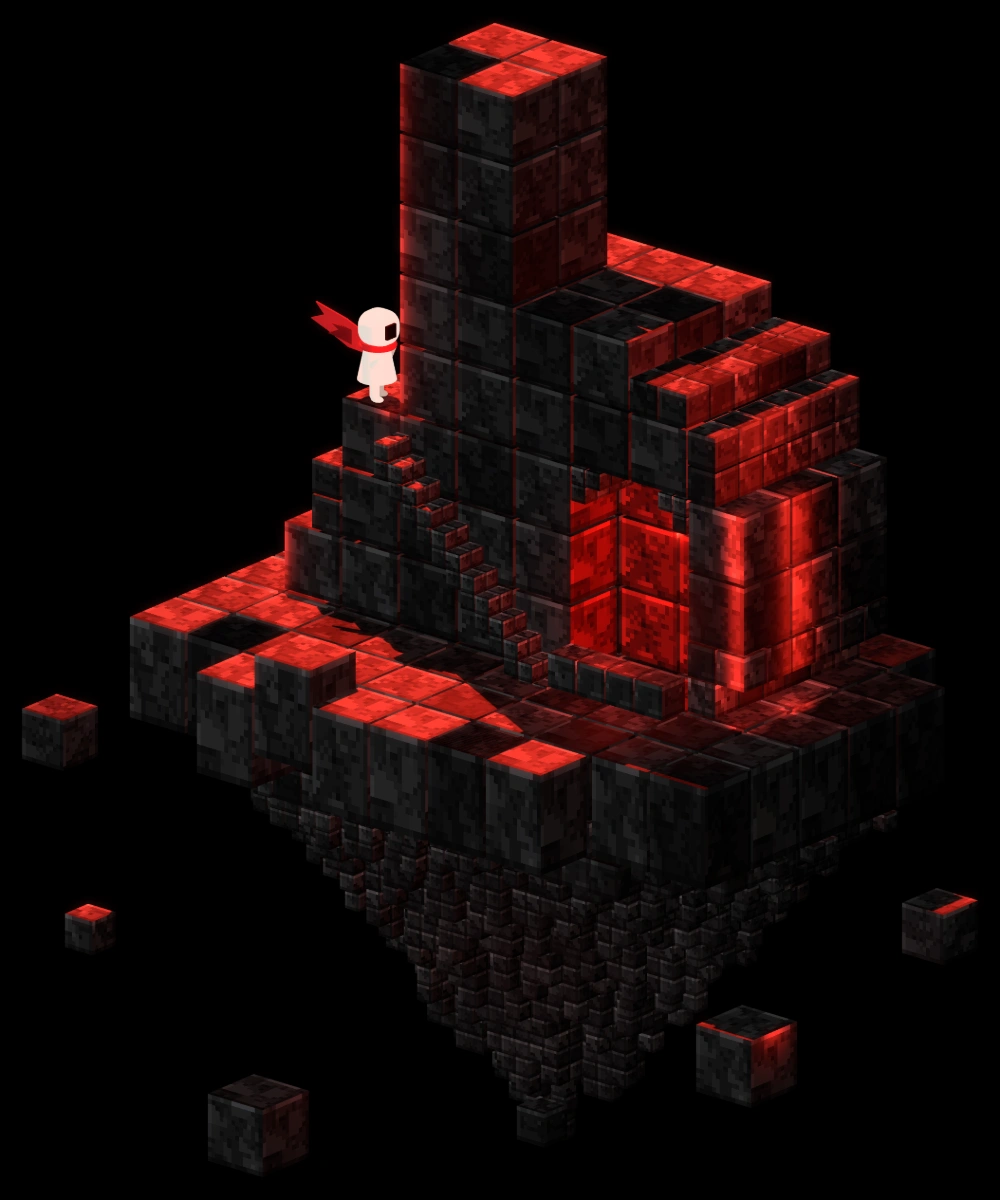
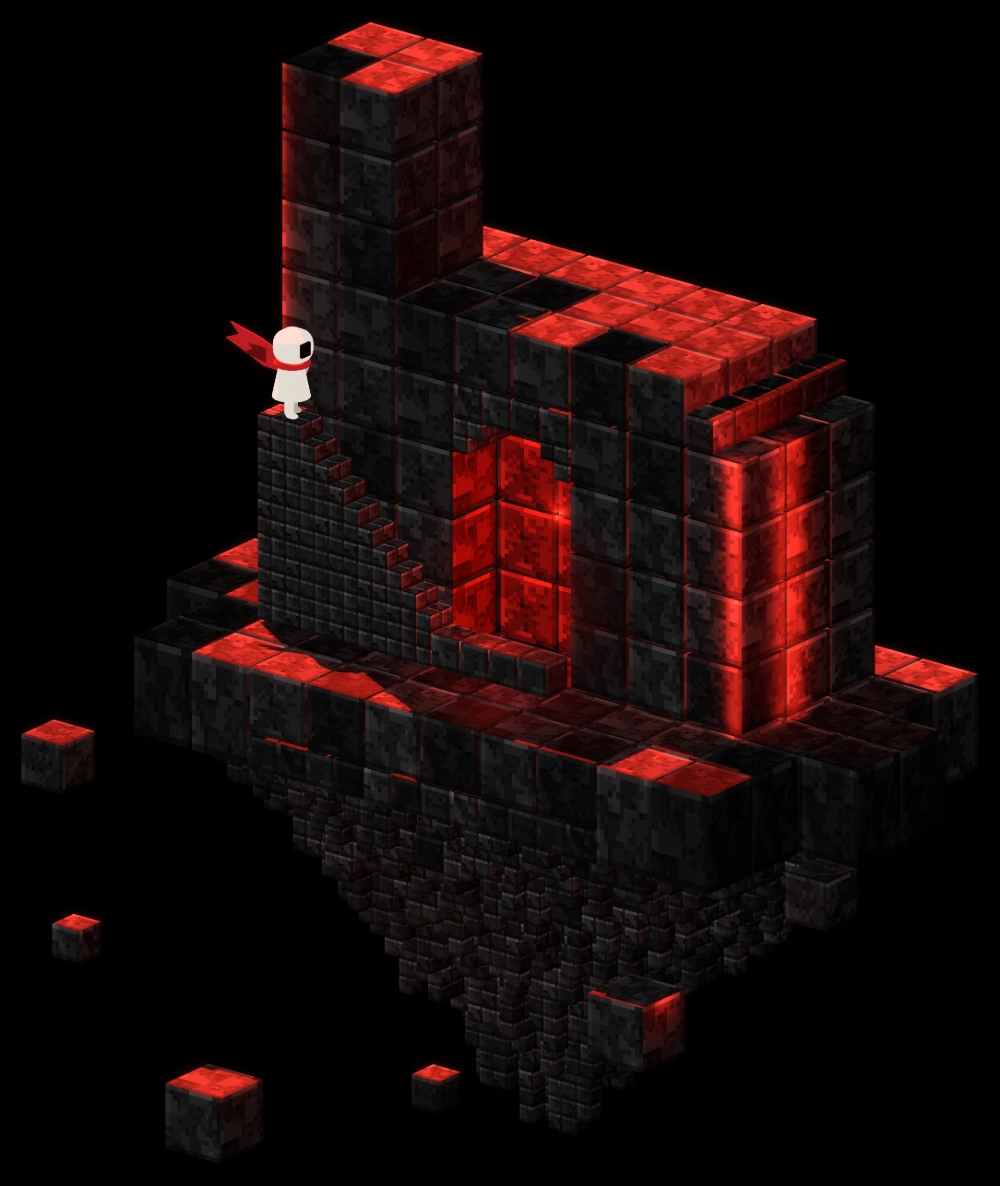
Sculpture: no left stair block, visible explorer, big right side
- removed the block and the spare platform left of the stem; one flight of stairs (a solid wedge of
  3.75-unit blocks) runs from a landing in front of the stem down the front wall to the doorstep
- explorer stands on that landing, in front of the stem, fully visible
- bowl lengthened to 7 cubes with a square bottom and a small rounded top corner, so its right end is a
  full-height side face; taller door; camera 38 deg; island centred under the b

Claude-Session: https://claude.ai/code/session_01QzWKhTYrrY3Jd26DSiS11Q

diff --git a/tools/sculpture3d.js b/tools/sculpture3d.js
@@ -51,11 +51,11 @@ const G = 3.75;                                    // finest letter cell; aligne
 const BODY_Y1 = 45;                                // front plane of the letter: three cubes deep
 const JF = BODY_Y1 / G;                            // cells through the depth of the bowl
 const STEM = { x0: 30, x1: 60, h: 120, y0: 15 };   // 2 cubes wide, 2 deep (front flush with the bowl), 8 tall
-const BOWL = { x0: 45, x1: 120, h: 75, rTop: 45, rBot: 15 };            // 3 deep, 5 tall, 5 wide; a big rounded top-right corner
-const DOOR = { x0: 75, x1: 105, zRect: 30, cx: 90, r: 15, recessY: 30 };   // arched opening on the cube grid, recessed one cube
+const BOWL = { x0: 45, x1: 150, h: 75, rTop: 30, rBot: 0 };             // 3 deep, 5 tall, 7 wide; square bottom, small rounded top corner: the right end is a big, full-height side face
+const DOOR = { x0: 75, x1: 105, zRect: 37.5, cx: 90, r: 15, recessY: 30 };   // arched opening on the cube grid, recessed one cube
 const LANDING_Z = 45;                              // top of the stairs, where the explorer stands
 const CELL = 15;                                   // island top cube; tiers below are CELL/2 and CELL/4
-const PLAT_CX = 62, PLAT_CY = 34, PLAT_AX = 80, PLAT_AY = 52;   // island footprint: an ellipse that reads as a disc from the camera
+const PLAT_CX = 90, PLAT_CY = 30, PLAT_AX = 84, PLAT_AY = 50;   // centred under the b: no spare platform to its left   // island footprint: an ellipse that reads as a disc from the camera
 
 const inCircle = (x, z, cx, cz, r) => (x - cx) ** 2 + (z - cz) ** 2 <= r * r;
 const inStem = (X, Z) => X >= STEM.x0 && X < STEM.x1 && Z >= 0 && Z < STEM.h;
@@ -106,30 +106,28 @@ function buildLetter() {
       }
     }
   }
-  // stairs, as in the reference: a left block flush with the b (same depth and front as the stem) whose top climbs in three steps
-  // (15 / 30 / 45 high) to the landing beside the stem, then a thin ribbon of small steps runs down the wall to the doorstep
-  putBox(0, 7.5, STEM.y0, BODY_Y1, 0, 15, 'stair');
-  putBox(7.5, 15, STEM.y0, BODY_Y1, 0, 30, 'stair');
-  putBox(15, 30, STEM.y0, BODY_Y1, 0, 45, 'stair');
+  // no block left of the stem: the only stairs are one flight down the front wall (emitStairs)
   // doorstep
   putBox(75, 105, 45, 52.5, 0, 7.5, 'step');
   chips.forEach(([i, j, k]) => grid.delete(gk(i, j, k)));
 }
 
-// thin ribbon of small steps from the landing down to the doorway: a diagonal line of 3.75-unit cubes outside the 7.5 grid,
-// each step a tread cube with one cube under it, two deep, like the reference's thin diagonal ribbon
-function emitRibbon() {
+// One flight of stairs against the front wall: a landing (11.25 wide, 45 high) in front of the stem where the explorer stands, then nine
+// steps (3.75 wide, 3.75 rise) down to the doorstep. Each step is a solid column of 3.75-unit blocks, two deep (7.5), so the flight
+// reads as a stair wedge built onto the wall; treads are lit, the risers below sit in shadow.
+function emitStairs() {
   const q = 3.75;
-  for (let st = 0; st < 12; st++) {
-    const X = 30 + q / 2 + st * q, top = 45 - (st + 1) * q;                   // treads at 41.25, 37.5, ... 3.75: one diagonal along the wall, from the landing to the doorstep
-    for (let n = 0; n < 2; n++) {
-      for (let d = 0; d < 2; d++) {
-        const f = baseFaces();
-        f[2] = 'c' + Math.floor(hash3(st, n, d, 250) * 4); f[0] = 'c' + Math.floor(hash3(st, n, d, 251) * 4); f[4] = 'c' + Math.floor(hash3(st, n, d, 252) * 4);
-        blocks.push({ X, Y: BODY_Y1 + q / 2 + d * q, Z: top - q / 2 - n * q, s: q, f, t: n === 0 ? 0.95 : 0.5 });
-      }
+  const cols = [];
+  for (let c = 0; c < 3; c++) cols.push([30 + q / 2 + c * q, 45]);                         // landing
+  for (let st = 0; st < 9; st++) cols.push([41.25 + q / 2 + st * q, 41.25 - st * q]);      // treads 41.25 ... 11.25, then the 7.5 doorstep
+  cols.forEach(([X, top], c) => {
+    const n = Math.round(top / q);
+    for (let k = 0; k < n; k++) for (let d = 0; d < 2; d++) {
+      const f = baseFaces();
+      f[2] = 'c' + Math.floor(hash3(c, k, d, 250) * 4); f[0] = 'c' + Math.floor(hash3(c, k, d, 251) * 4); f[4] = 'c' + Math.floor(hash3(c, k, d, 252) * 4);
+      blocks.push({ X, Y: BODY_Y1 + q / 2 + d * q, Z: k * q + q / 2, s: q, f, t: k === n - 1 ? 0.95 : 0.55 + 0.3 * hash3(c, k, d, 253) });
     }
-  }
+  });
 }
 
 /* merge aligned groups into the island's three tiers: 15-unit cubes (4x4x4 cells) where a full group fits, else 7.5-unit blocks
@@ -200,15 +198,15 @@ const shadeDepth = (Z) => 1 - 0.4 * Math.min(1, Math.max(0, -Z / 100));
 const darkCube = (a, b, c) => hash3(a, b, c, 302) < 0.4;                  // some cubes are near-black stone, so tops alternate red / black
 const tintOf = (a, b, c, Z) => (darkCube(a, b, c) ? 0.03 : 0.45 + 0.8 * hash3(a, b, c, 301)) * shadeDepth(Z);
 function emitPlatform() {
-  for (let ci = -6; ci <= 12; ci++) {
+  for (let ci = -6; ci <= 14; ci++) {
     for (let cj = -8; cj <= 10; cj++) {
       const x = ci * CELL + CELL / 2, y = cj * CELL + CELL / 2;               // cell edges line up with the letter's 15-unit cubes
       const rr = rOf(x, y);
       if (rr > 1.0) continue;
       const r = hash3(ci, cj, 0, 2);
       const ring = rr > 0.8;
-      const flat = cj >= 0 && cj <= 3 && x > -45 && x < 150;                  // keeps its height: under the letter, the stairs and the doorstep
-      const under = cj >= 0 && cj <= 2 && x > -30 && x < 135;                     // hidden under the letter: no checker
+      const flat = cj >= 0 && cj <= 3 && x > -45 && x < 165;                  // keeps its height: under the letter, the stairs and the doorstep
+      const under = cj >= 0 && cj <= 2 && x > 15 && x < 150;                       // hidden under the letter: no checker
       let top = 0;
       if (ring && !flat && r > 0.93) top = CELL / 2;                           // only the odd rim cube stands higher: otherwise a regular row
       const D = bowlDepth(x, y) * (0.96 + 0.08 * hash3(ci, cj, 1, 4));
@@ -253,7 +251,7 @@ function emitPlatform() {
 /* ----- loose floating cubes ----- */
 const LOOSE = [
   // x, y, z (centre), size
-  [-40, 66, -34, 11.25], [-12, 90, -62, 7.5], [40, 100, -88, 15],
+  [-8, 70, -34, 11.25], [14, 92, -62, 7.5], [56, 100, -88, 15],
   [112, 98, -70, 7.5], [150, 80, -52, 15], [170, 44, -30, 11.25]
 ];
 function emitLoose() {
@@ -328,7 +326,7 @@ function material(token, n) {
 /* ---------- build ---------- */
 buildLetter();
 emitLetter();
-emitRibbon();
+emitStairs();
 emitPlatform();
 emitLoose();
 
@@ -414,7 +412,7 @@ for (const [, list] of groups) {
   add(new THREE.ExtrudeGeometry(tail, { depth: 0.45, bevelEnabled: false }), red, -1.2, 10.5, -0.2, 0, 0.15, 0);
   add(new THREE.ExtrudeGeometry(tail, { depth: 0.3, bevelEnabled: false }), redDark, -1.0, 9.9, -0.9, 0, 0.35, 0.05).scale.set(0.7, 0.6, 1);
   g.scale.setScalar(1.15);
-  g.position.set(21, LANDING_Z, 41);
+  g.position.set(35.6, LANDING_Z, 48.75);
   scene.add(g);
 })();
 
@@ -455,9 +453,8 @@ const stripLight = (X, Y, Z, w, h, face, intensity) => {                  // sce
   scene.add(l);
 };
 stripLight(28, 46, 82.5, 4, 75, 'front', 8);                                // left edge of the stem above the landing
-stripLight(-2, 46, 7.5, 4, 15, 'front', 8);                                // left edge of the lowest step
-stripLight(118, 46, 37.5, 4, 75, 'front', 8);                               // front edge at the right end of the bowl
-stripLight(122, 28, 37.5, 6, 75, 'right', 8);                               // right end face, along its front edge
+stripLight(148, 46, 37.5, 4, 75, 'front', 8);                               // front edge at the right end of the bowl
+stripLight(152, 28, 37.5, 6, 75, 'right', 8);                               // right end face, along its front edge
 edgeLight(67, 92, -70, 160, 100);                                     // low red glow under the island: the cone's tips catch it
 edgeLight(160, 80, -45, 90, 60);
 edgeLight(-45, 70, -40, 80, 55);
@@ -469,7 +466,7 @@ const centre = bbox.getCenter(new THREE.Vector3());
 const camera = new THREE.OrthographicCamera(-1, 1, 1, -1, 1, 2000);
 // Camera measured from the reference: the bowl's right end is half as wide on screen as its front (45 deep x 75 wide), which
 // means 40 deg around from the b's face; 21 deg up from the top-face proportions.
-const AZ = 40 * Math.PI / 180, EL = 21 * Math.PI / 180;
+const AZ = 38 * Math.PI / 180, EL = 21 * Math.PI / 180;
 camera.position.copy(centre).add(new THREE.Vector3(Math.sin(AZ) * Math.cos(EL), Math.sin(EL), Math.cos(AZ) * Math.cos(EL)).multiplyScalar(700));
 camera.lookAt(centre);
 camera.updateMatrixWorld(true);

diff --git a/index.html b/index.html
@@ -46,9 +46,9 @@
       <figure class="hero__art">
         <img class="hero__sculpture"
           src="assets/sculpture.webp"
-          srcset="assets/sculpture-1000.webp 1000w, assets/sculpture.webp 2108w"
+          srcset="assets/sculpture-1000.webp 1000w, assets/sculpture.webp 2169w"
           sizes="(max-width: 900px) 100vw, 46vw"
-          width="2108" height="2530"
+          width="2169" height="2573"
           alt="A lowercase b built from small charcoal blocks, floating on a rocky island. A stairway climbs to a tiny ivory explorer in a red scarf, and a red doorway glows in the bowl."
           fetchpriority="high" decoding="async">
       </figure>

diff --git a/design/ITERATION.md b/design/ITERATION.md
@@ -41,5 +41,6 @@ Use [DESIGN.md](../DESIGN.md) as the current source of design decisions. Add rev
 | 2026-10-15 | b rebuilt from the same large cubes as the island (15 / 7.5-unit); island is a round disc over a deep pointed gem cone; camera 38 deg around / 24 deg up; red spotlight key with shadows, tighter door spill. Supersedes the diamond-footprint island. | Implemented, awaiting user review |
 | 2026-10-15 | b shape reworked from a coordinate grid laid over the reference: 3 cubes deep, stem 2 wide x 8 tall, bowl 5 wide x 5 tall with a big rounded top-right corner, arched door on the cube grid, four steps up to a landing then a thin ribbon of small steps down to the doorstep; all on the island's 15 / 7.5 / 3.75 cube tiers; camera 34 deg around / 21 deg up. Lighting untouched. | Implemented, awaiting user review |
 | 2026-10-15 | From the user's marked-up screenshot: removed the free-standing left stair block and extra platform (stairs now sit flush with the wall like the reference), made the bowl's right end a big side face (camera 40 deg around, arc cut on a 7.5 grid), and gave the island a clean front row of stretched 15 x 22.5 x 15 cubes on a slimmer slab. | Implemented, awaiting user review |
+| 2026-10-15 | Removed the block and platform left of the stem; one stair flight runs from a landing in front of the stem (explorer fully visible) down the front wall to the door; bowl lengthened to 7 cubes with a square bottom and small rounded top corner so its right end is a full-height side; taller door; island centred under the b. | Implemented, awaiting user review |
 
 For each later review, record the exact file, decision, and approval status. Do not mark proposals approved without a user decision.
